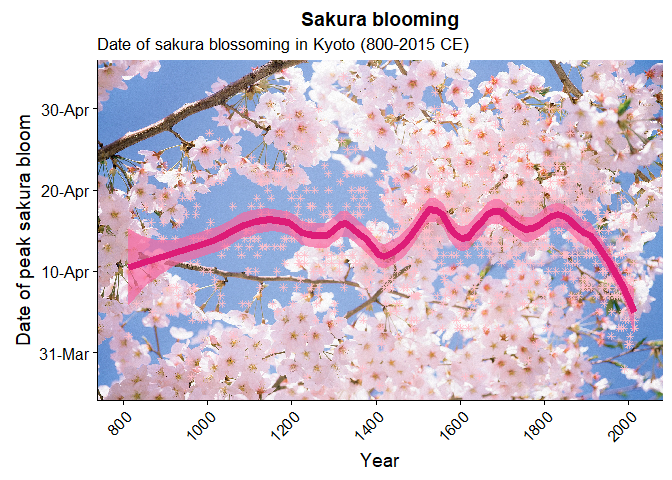
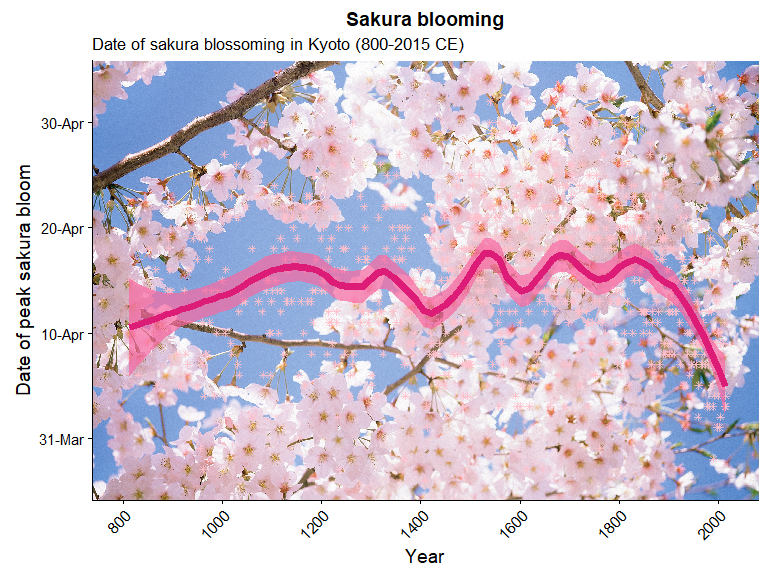
- sakura edits upload

diff --git a/_posts/2017-09-10-sakura-bloom.md b/_posts/2017-09-10-sakura-bloom.md
@@ -3,11 +3,11 @@ layout: post
 title: "Sakura Bloom: Data Munging & Alternate Visualizations!"
 ---
 
-April in Japan is a time of new beginnings. Unlike most countries, the school year starts in April and is also the beginning of the fiscal year for the government and most corporations. This past April, The Economist presented an interesting article with a beautiful ggplot2 graphic depicting the steadily early blossoming of sakura trees in Kyoto:
+April in Japan is a time of new beginnings. Unlike most countries, the school year starts in April and is also the beginning of the fiscal year for the government and most corporations. This past April, *The Economist* presented an interesting article with a beautiful ggplot2 graphic depicting the steadily early blossoming of sakura trees in Kyoto:
 
 ![Imgur](https://i.imgur.com/1lGPG0Y.png)
 
-For this article I will try to recreate this graphic but with my own twist(s). Thankfully the raw data is made available by the original author of the research paper documenting this phenomenon, Dr. Yasuyuki Aono from Osaka Prefecture University. The dataset can be downloaded from [here](http://atmenv.envi.osakafu-u.ac.jp/aono/kyophenotemp4/).
+For this article I will try to recreate this graphic but with a few tricks of my own. Thankfully the raw data is made available by the original author of the research paper documenting this phenomenon, Dr. Yasuyuki Aono from Osaka Prefecture University. The data set can be downloaded from [here](http://atmenv.envi.osakafu-u.ac.jp/aono/kyophenotemp4/).
 
 Let's get started by loading up our trusty packages and data:
 
@@ -19,7 +19,8 @@ library(scales)
 
 # Load data ---------------------------------------------------------------
 
-sakura <- read.csv("~/R_materials/Kyoto_Flowers.csv")
+sakura <- read.csv("~/R_materials/sakura_bloom/Kyoto_Flowers.csv")
+
 glimpse(sakura)
 ```
 
@@ -33,7 +34,7 @@ glimpse(sakura)
     ## $ Reference.Name            <fctr> -, -, -, -, -, -, -, -, -, -, -, NI...
     ## $ X                         <lgl> NA, NA, NA, NA, NA, NA, NA, NA, NA, ...
 
-From looking at the raw data, it appears that data is missing from a number of rows until 812 AD, along with many other rows throughout the years. We might as well cut those rows out especially since we can specify the limits of our year variable in the plot manually when we start plotting.
+From looking at the raw data, it appears that data is missing from a number of rows until **812 AD**, along with many other rows throughout the years. We might as well cut those rows out especially since we can manually specify the limits of our `year` variable when we start plotting.
 
 ``` r
 # Tidy and Clean ----------------------------------------------------------
@@ -49,10 +50,9 @@ colnames(sakura)   # look at the column names
     ## [5] "Data.type.code"            "Reference.Name"           
     ## [7] "X"
 
-from looking at the column names... they don't look very neat or tidy.
+From looking at the column names... they don't look very neat or tidy.
 
 ``` r
-# colnames don't look very neat and tidy...
 colnames(sakura) <- sakura %>% 
   colnames() %>% 
   str_to_lower() %>%                  # to lower case letters
@@ -66,11 +66,11 @@ colnames(sakura)
     ## [5] "data_type_code"            "reference_name"           
     ## [7] "x"
 
-Much better! However there are two columns with names that need some manual fixing:
+Much better! However there are two columns with names that need some manual fixing using the `rename()` function:
 
 ``` r
-colnames(sakura)[1] <- "year"
-colnames(sakura)[2] <- "full_flowering_day_of_year"
+sakura <- sakura %>% rename(year = ad, 
+                            full_flowering_day_of_year = full_flowering_date__doy_)
 
 colnames(sakura)
 ```
@@ -80,11 +80,10 @@ colnames(sakura)
     ## [5] "data_type_code"             "reference_name"            
     ## [7] "x"
 
-OK! Now let's separate the column containing our three-digit date data into individual `month` and `day` columns. We can use regular expressions (**regex**) to parse the character strings of the date (converted from the numeric format first) and then separate the `month` digits and `day` digits with a `.` period symbol.
+OK! Now let's separate the column containing our three-digit date data into individual `month` and `day` columns. After converting the `full_flowering_date` column into **character** format, we can use regular expressions (**regex**) to parse the character strings of the date and then separate the `month` digits and `day` digits with a `.` period symbol.
 
 ``` r
-# turn three digit number into month and day values.
-# split into two backreferences on the first digit, then place a .
+# split into two backreferences on the first digit, then place a '.' in between
 date_sep <- as.character(sakura$full_flowering_date) %>% 
   str_replace_all("(.{1})(.*)", "\\1.\\2") %>% 
   as.data.frame()
@@ -96,23 +95,22 @@ colnames(date_sep)
     ## [1] "date_fl"
 
 ``` r
-date_sep <- date_sep %>% separate(date_fl, c("month", "day"), "\\.")  # separate into 'month' and 'day' columns by '.'
+# separate into 'month' and 'day' columns by '.'
+date_sep <- date_sep %>% separate(date_fl, c("month", "day"), "\\.")  
 ```
 
-Now we can combine `date_sep` into `sakura` using `bind_cols()` and then remove the variables we don't need:
+Now we can combine `date_sep` into `sakura` using `bind_cols()` and then remove all the variables we don't need:
 
 ``` r
 sakura <- bind_cols(date_sep, sakura)   
 sakura <- sakura %>% select(-full_flowering_date, -full_flowering_day_of_year, -x, -data_type_code, -reference_name, -source_code)  
 ```
 
-Using the `lubridate` package we can create a separate variable in YYYY/MM/DD format as well as format the individual date components into their own variables.
+Using the `make_date()` function in the `lubridate` package we can create a separate variable in YYYY/MM/DD format as well as format the individual date components into their own variables.
 
 ``` r
 library(lubridate)
-# ?make_date()
-# ?format()
-# use make_date function to create separate variable in full date format
+
 sakura <- sakura %>% 
   mutate(bloom = make_date(year, month, day))
 
@@ -136,10 +134,6 @@ glimpse(sakura)
     ## $ Month       <chr> "Apr", "Apr", "Apr", "Apr", "Apr", "Apr", "Apr", "...
     ## $ Day         <chr> "01", "15", "06", "18", "14", "09", "16", "05", "1...
 
-``` r
-# date format are all in <chr>
-```
-
 Now we are ready to plot!
 
 ``` r
@@ -148,24 +142,25 @@ Now we are ready to plot!
 ggplot(sakura, aes(x = Year, y = Day_Of_Year)) +
   geom_point() +
   geom_line() +
-  scale_y_continuous(labels = function(x) format(as.Date(as.character(x), "%j"), "%d-%b"))
+  scale_y_continuous(labels = function(x) format(as.Date(as.character(x), "%j"), "%d-%b")) +
+  scale_x_discrete(breaks = pretty_breaks(5))
 ```
 
-![](../assets/2017-09-10-sakura-bloom_files/unnamed-chunk-8-1.png)
+<img src="../assets/2017-09-10-sakura-bloom_files/unnamed-chunk-8-1.png" style="display: block; margin: auto;" />
 
-This looks very messy and we can't really discern any patterns/trends from this plot... So let's try adding in a smoother into our plot!
+Does not look very clear...
 
 ``` r
-ggplot(sakura, aes(x = year, y = Day_Of_Year)) +  # or just use original 'year' variable...
+ggplot(sakura, aes(x = year, y = Day_Of_Year)) + 
   geom_point() +
   geom_smooth(span = 0.2, size = 3) +
   scale_y_continuous(labels = function(x) format(as.Date(as.character(x), "%j"), "%b-%d"),
                      limits = c(84, 125))
 ```
 
-![](../assets/2017-09-10-sakura-bloom_files/unnamed-chunk-9-1.png)
+<img src="../assets/2017-09-10-sakura-bloom_files/unnamed-chunk-9-1.png" style="display: block; margin: auto;" />
 
-Better! Now we can clearly see the trend by adding in the `geom_smooth()` function, but could we make it more... sakura-y?
+Slightly better, but could we make it more... sakura-y?
 
 ``` r
 ggplot(sakura, aes(x = year, y = Day_Of_Year)) +  # or just use original 'year' variable...
@@ -175,11 +170,11 @@ ggplot(sakura, aes(x = year, y = Day_Of_Year)) +  # or just use original 'year' 
                      limits = c(84, 125))
 ```
 
-![](../assets/2017-09-10-sakura-bloom_files/unnamed-chunk-10-1.png)
+<img src="../assets/2017-09-10-sakura-bloom_files/unnamed-chunk-10-1.png" style="display: block; margin: auto;" />
 
-The colors are more pink and changing the points to an 8-sided shape makes it a bit more sakura-like but the plot looks out of place on a drab grey background...
-The mix of colors look a bit garish but I chose them because they would stand out against a sakura tree background image that I want to place...
-So let's add a background image! (Generally not recommended but let's try it out!)
+Better! but does not look good on a drab grey background... So let's add a background image! We can do this by utilizing a variety of packages to download an image from the internet and place on ggplot on top of it. All of this can be done inside a custom function.
+
+In this custom function we will: 1. Download an image and store it in a temporary file 2. Save that image with the `readJPEG()` function 3. Use `rasterGrob()` to render a raster object with the downloaded image 4. Slowly build up our ggplot visualization step-by-step
 
 ``` r
 #### With background image!
@@ -197,34 +192,25 @@ sakura_r <- function(df = sakura, xvar = 'as.numeric(Year)', yvar = 'Day_Of_Year
   
   rstr <- rasterGrob(img, width = unit(1,"npc"), height = unit(1,"npc"), interpolate = FALSE)
   
-  g <- ggplot(data = df)  + annotation_custom(rstr, -Inf, Inf, -Inf, Inf)
+  g <- ggplot(data = df) + annotation_custom(rstr, -Inf, Inf, -Inf, Inf)
   g <- g + geom_point(aes_string(x = xvar, y = yvar), alpha = 0.8, color = "pink", shape = 8)
   g <- g + geom_smooth(aes_string(x = xvar, y = yvar), color = "#dd1c77", span = 0.2, size = 2.5, fill = "#f768a1", alpha = 0.7)
   g <- g + scale_y_continuous(labels = function(x) format(as.Date(as.character(x), "%j"), "%d-%b"))
   g <- g + scale_x_continuous(limits = c(800, 2020), breaks = seq(800, 2000, 200))
   g <- g + labs(x = "Year", y = "Date of peak sakura bloom")
   g <- g + ggtitle("Sakura blooming", subtitle = "Date of sakura blossoming in Kyoto (800-2015 CE)")
-  g <- g + theme(legend.position = "top", legend.background = element_rect(color = "black"),
-                 axis.text.x = element_text(angle = 45, hjust = 1))
+  g <- g + theme(axis.text.x = element_text(size = 11, angle = 45, hjust = 1),
+                 axis.text.y = element_text(size = 11))
   return (g)
 }
+
 sakura_r()
 ```
 
-![](../assets/2017-09-10-sakura-bloom_files/unnamed-chunk-11-1.png)
+<img src="../assets/2017-09-10-sakura-bloom_files/unnamed-chunk-11-1.png" style="display: block; margin: auto;" />
 
-Most of the time you would never add in a background image to a plot as it would obscure the individual data points and other details. However, for this graph the main point of interest is the trend line going across and decreasing from the 20th century, pointing out how sakura have been steadily blossoming earlier and earlier in the year.This can still be seen quite clearly despite the background image. I mainly wanted to show off a cool new trick I learned and to also do something *slightly* different from what The Economist did. 
+Normally, you would **never** add in a background image to a plot as it would obscure the individual data points and other details. However, for this graph the main point of interest is the trend line going across and decreasing from the 20th century, pointing out how sakura have been steadily blossoming earlier and earlier in the year which can be clearly seen despite the background image. I mainly wanted to show a cool new trick I learned and to also do something *slightly* different from what *The Economist* did. Some other cool uses of Dr. Aono's sakura data set include [this](http://opiateforthemass.es/articles/sakura/) visualization done by Christoph Safferling from *Opiate for the masses* where they incorporated sakura emoji as the data point shapes; definitely much better than the ersatz `geom_point` shape I used as "sakura" for my own plot!
 
-Some other cool adaptations of Dr. Aono's sakura dataset include [this](http://opiateforthemass.es/articles/sakura/) visualization done by Christoph Safferling from *Opiate for the masses* where they incorporated sakura emoji as the data point shapes; definitely much better than the ersatz geom\_point shape I used as "sakura"for my own plot!
+To cap off, I'll leave you with some photos I took of sakura in Tokyo when I went back home for Spring Break back in April! Can't wait for the blossoming next year!
 
-To cap off, I'll leave you with some photos I took of sakura in Tokyo when I went back home for Spring Break back in April! Can't wait for the blossomings next year!
-
-
-
-![](https://i.imgur.com/mGb9bms.jpg)   
-
-
-![](https://i.imgur.com/i2z7d4y.jpg)  
-
-
-![](https://i.imgur.com/fXEmtzx.jpg)  
+![sakura1](https://i.imgur.com/mGb9bms.jpg) ![sakura2](https://i.imgur.com/i2z7d4y.jpg) ![sakura3](https://i.imgur.com/fXEmtzx.jpg)
